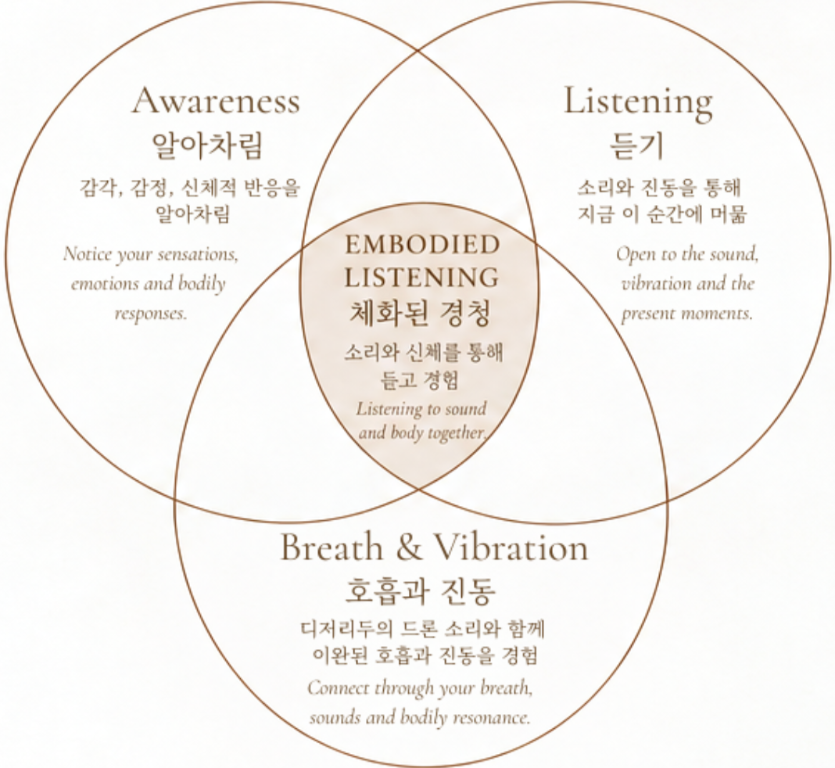
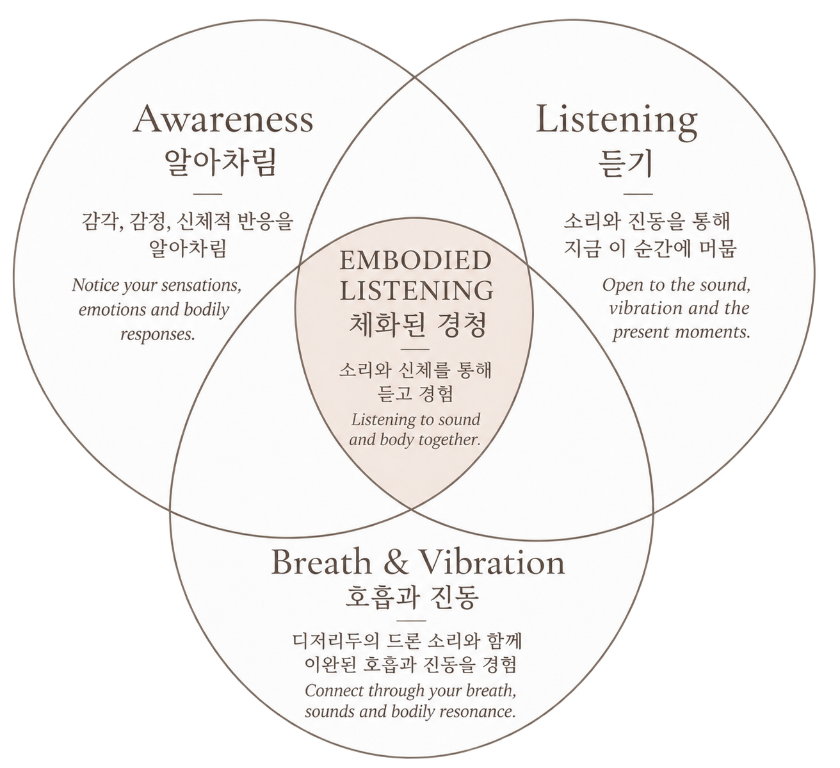
Update bilingual layout and program diagram

diff --git a/src/app/[lang]/page.tsx b/src/app/[lang]/page.tsx
@@ -14,7 +14,8 @@ import { siteUrl } from "@/lib/env";
 export default async function HomePage({ params }: PageProps<"/[lang]">) {
   const { lang } = await params;
   if (!isLang(lang)) notFound();
-  const t = await getContent(lang);
+  const [koContent, enContent] = await Promise.all([getContent("ko"), getContent("en")]);
+  const t = lang === "ko" ? koContent : enContent;
   const ui = getUI(lang);
   const isKo = lang === "ko";
   const ch = ui.chapters;
@@ -67,7 +68,7 @@ export default async function HomePage({ params }: PageProps<"/[lang]">) {
           </h1>
           <div className="rise rise-3 mt-8 flex flex-wrap items-end justify-between gap-8">
             <div>
-              <p className={`${titleFont} text-[clamp(40px,6.2vw,88px)] leading-[0.86]`}>{t.hero.name}</p>
+              <p className={`${titleFont} text-[clamp(32px,5vw,64px)] leading-[0.86]`}>{t.hero.name}</p>
               <p className="mt-1 text-[14px] text-paper/85">{t.hero.role}</p>
             </div>
             <div className="flex flex-wrap gap-3">
@@ -95,7 +96,7 @@ export default async function HomePage({ params }: PageProps<"/[lang]">) {
       <section id="journey" aria-label={ch.journey} className="wrap scroll-mt-24 py-20 md:py-32">
         <div className="grid gap-8 md:grid-cols-12 md:gap-14">
           <div className="md:col-span-5">
-            <p className={`${titleFont} text-[clamp(48px,8vw,96px)] leading-none`}>{t.hero.name}</p>
+            <p className={`${titleFont} text-[clamp(36px,5vw,64px)] leading-none`}>{t.hero.name}</p>
           </div>
           <div className="md:col-span-7">
             <Chapter no="01" label={ch.journey} />
@@ -222,42 +223,53 @@ export default async function HomePage({ params }: PageProps<"/[lang]">) {
 
         <div className="mt-20 border-t border-[var(--rule-strong)] pt-10">
           <Chapter no="05" label="ADVISORY BOARD" />
-          <h3 className={`${titleFont} mt-6 text-[var(--display-md)]`}>{t.advisoryBoard.heading}</h3>
-          <p className="mt-5 max-w-3xl text-brown/80">{t.advisoryBoard.description}</p>
-          <ul className="mt-10 grid gap-10 md:grid-cols-3">
-            {t.advisoryBoard.members.map((member, i) => (
-              <li key={i} className="border-t border-[var(--rule)] pt-6">
-                <span className="font-title text-lg text-glow-pink">{String(i + 1).padStart(2, "0")}</span>
-                <p className={`${titleFont} mt-3 text-xl`} lang="ko">{member.linesKo[0]}</p>
-                <p className="mt-1 font-title text-base text-brown/65" lang="en">{member.linesEn[0]}</p>
-                <ul className="mt-4 space-y-1.5 text-sm text-brown/80">
-                  {member.linesKo.slice(1).map((line, k) => (
-                    <li key={`ko-${k}`} lang="ko">
-                      {line}
-                      {member.linesEn[k + 1] && <span lang="en" className="mt-1 block text-brown/60">{member.linesEn[k + 1]}</span>}
-                    </li>
-                  ))}
-                </ul>
-              </li>
-            ))}
-          </ul>
+          <section aria-labelledby="advisory-title-en">
+            <h3 id="advisory-title-en" className="font-title mt-6 text-[var(--display-md)]" lang="en">{enContent.advisoryBoard.heading}</h3>
+            <p className="mt-5 max-w-3xl text-brown/80" lang="en">{enContent.advisoryBoard.description}</p>
+            <ul className="mt-10 grid gap-10 md:grid-cols-3">
+              {enContent.advisoryBoard.members.map((member, i) => (
+                <li key={i} className="border-t border-[var(--rule)] pt-6" lang="en">
+                  <span className="font-title text-lg text-glow-pink">{String(i + 1).padStart(2, "0")}</span>
+                  <p className="font-title mt-3 text-xl">{member.linesEn[0]}</p>
+                  <ul className="mt-4 space-y-1.5 text-sm text-brown/80">
+                    {member.linesEn.slice(1).map((line) => <li key={line}>{line}</li>)}
+                  </ul>
+                </li>
+              ))}
+            </ul>
+          </section>
+          <section aria-labelledby="advisory-title-ko" className="mt-12 border-t border-[var(--rule-strong)] pt-10">
+            <h3 id="advisory-title-ko" className="font-title-kr text-[var(--display-md)]" lang="ko">{koContent.advisoryBoard.heading}</h3>
+            <p className="mt-5 max-w-3xl text-brown/80" lang="ko">{koContent.advisoryBoard.description}</p>
+            <ul className="mt-10 grid gap-10 md:grid-cols-3">
+              {koContent.advisoryBoard.members.map((member, i) => (
+                <li key={i} className="border-t border-[var(--rule)] pt-6" lang="ko">
+                  <span className="font-title text-lg text-glow-pink">{String(i + 1).padStart(2, "0")}</span>
+                  <p className="font-title-kr mt-3 text-xl">{member.linesKo[0]}</p>
+                  <ul className="mt-4 space-y-1.5 text-sm text-brown/80">
+                    {member.linesKo.slice(1).map((line) => <li key={line}>{line}</li>)}
+                  </ul>
+                </li>
+              ))}
+            </ul>
+          </section>
         </div>
       </section>
 
       {/* gratitude */}
-      <section aria-label={isKo ? t.culturalRespect.titleKo : t.culturalRespect.titleEn} className="wrap py-20 text-center md:py-28">
-        <p className="font-title text-base tracking-[0.2em] text-bronze-deep uppercase">
-          {t.culturalRespect.titleKo} / {t.culturalRespect.titleEn}
-        </p>
-        <div className="font-title mx-auto mt-5 max-w-3xl space-y-2 text-[1.05rem] italic leading-[1.45]">
-          {t.culturalRespect.bodyKo.map((line, i) => (
-            <div key={line}>
-              <p lang="ko">{line}</p>
-              {t.culturalRespect.bodyEn[i] && (
-                <p lang="en" className="mt-1 text-[0.72em] not-italic text-brown/70">{t.culturalRespect.bodyEn[i]}</p>
-              )}
-            </div>
-          ))}
+      <section aria-label="Cultural respect and gratitude" className="wrap py-20 text-center md:py-28">
+        <div lang="en">
+          <h2 className="font-title text-base tracking-[0.08em] text-bronze-deep">{enContent.culturalRespect.titleEn}</h2>
+          <div className="font-title mx-auto mt-6 max-w-4xl space-y-4 text-[1.05rem] leading-[1.6] text-brown/80">
+            {enContent.culturalRespect.bodyEn.map((line) => <p key={line}>{line}</p>)}
+          </div>
+        </div>
+        <hr className="my-10 border-[var(--rule-strong)]" />
+        <div lang="ko">
+          <h2 className="font-title-kr text-base tracking-[0.08em] text-bronze-deep">{koContent.culturalRespect.titleKo}</h2>
+          <div className="font-title-kr mx-auto mt-6 max-w-4xl space-y-4 text-[1.05rem] leading-[1.6] text-brown/80">
+            {koContent.culturalRespect.bodyKo.map((line) => <p key={line}>{line}</p>)}
+          </div>
         </div>
       </section>
 

diff --git a/src/app/[lang]/workshops/page.tsx b/src/app/[lang]/workshops/page.tsx
@@ -31,7 +31,15 @@ export default async function WorkshopsPage({ params }: PageProps<"/[lang]/works
           const wide = images.length > 1 && !stacked;
           const reverse = i % 2 === 1;
 
-          const media = stacked ? (
+          const media = i === 0 && images.length >= 3 ? (
+            <div className="flex flex-col gap-4">
+              <div className="grid grid-cols-[3fr_5fr] gap-4">
+                <Photo src={images[0]} alt={`${item.title} 1`} ratio="4/5" sizes="(min-width:768px) 18vw, 35vw" />
+                <Photo src={images[1]} alt={`${item.title} 2`} ratio="4/3" sizes="(min-width:768px) 30vw, 60vw" />
+              </div>
+              <Photo src={images[2]} alt={`${item.title} 3`} sizes="(min-width:768px) 55vw, 100vw" plain />
+            </div>
+          ) : stacked ? (
             <div className="flex flex-col gap-6">
               <div className="grid grid-cols-2 gap-6">
                 {images.slice(0, -1).map((src, k) => (

diff --git a/src/components/EmbodiedDiagram.tsx b/src/components/EmbodiedDiagram.tsx
@@ -97,7 +97,7 @@ export function EmbodiedDiagram({ lang, className = "" }: { lang: Lang; classNam
           <Image
             src="/images/program/embodied-listening-diagram.png"
             alt={diagramAlt}
-            width={835}
+            width={840}
             height={768}
             sizes="(min-width: 768px) 55vw, 100vw"
             className="mx-auto h-auto w-full max-w-[720px] object-contain"
